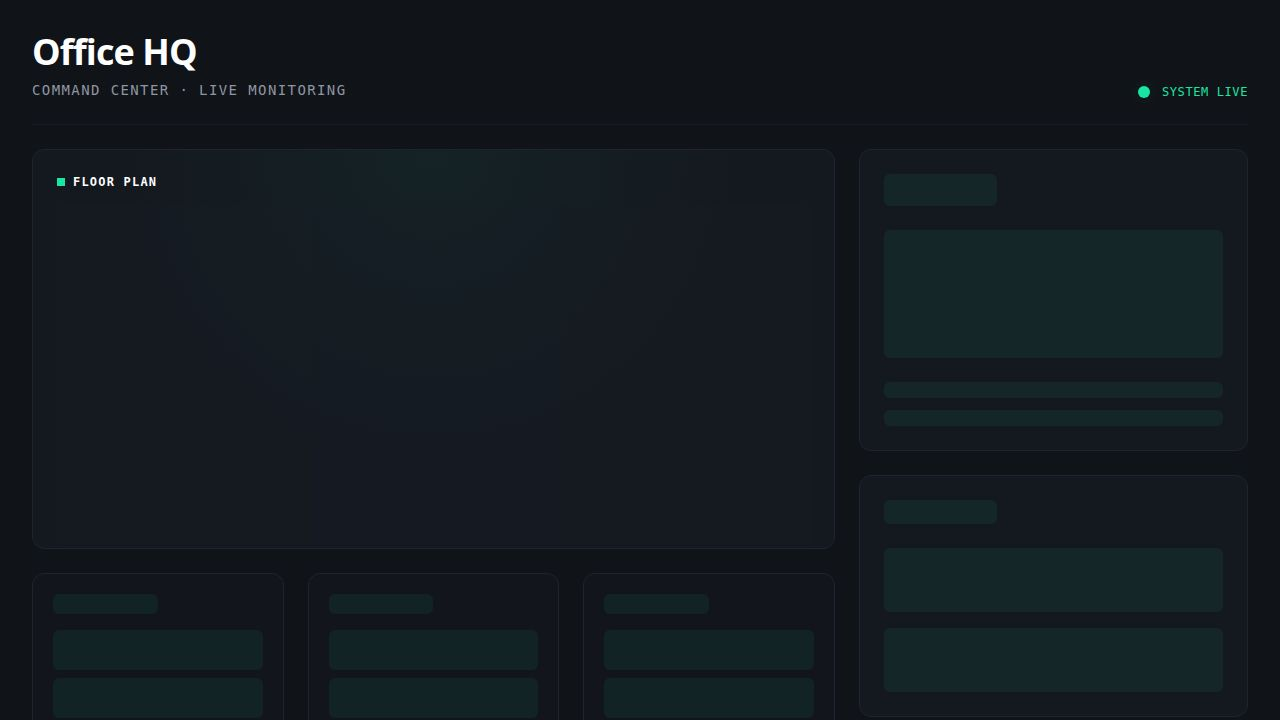
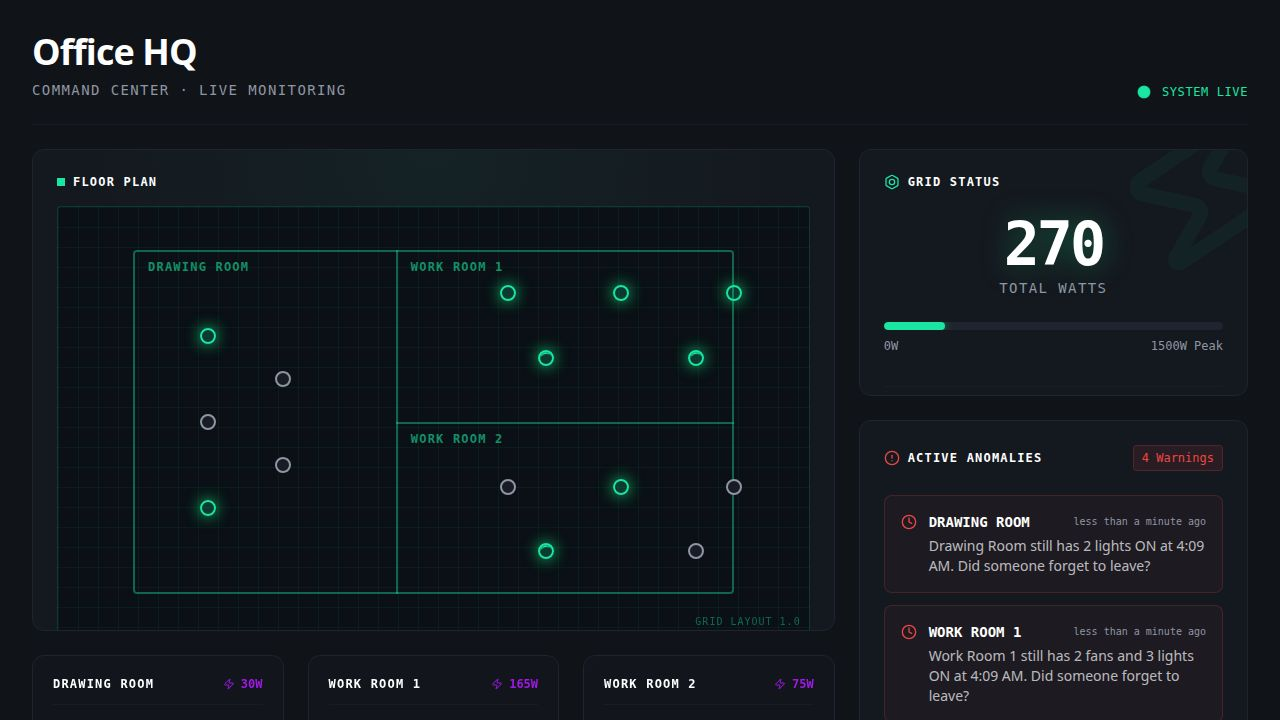
Add interactive controls for managing device states
Introduce a new API endpoint to update device states and integrate UI controls for toggling devices on and off.

Replit-Commit-Author: Agent
Replit-Commit-Session-Id: dd5321ab-e83e-40ae-be29-1f36fb33ab5c
Replit-Commit-Checkpoint-Type: full_checkpoint
Replit-Commit-Event-Id: 6da7ce42-8273-404b-93e8-211412987fb1
Replit-Commit-Screenshot-Url: https://storage.googleapis.com/screenshot-production-us-central1/3881f32d-806b-4e16-afae-a0b369c7b608/dd5321ab-e83e-40ae-be29-1f36fb33ab5c/VwCcY8L
Replit-Helium-Checkpoint-Created: true

diff --git a/artifacts/api-server/src/lib/deviceStore.ts b/artifacts/api-server/src/lib/deviceStore.ts
@@ -157,6 +157,36 @@ export function getUsageSummary(): UsageSummary {
   };
 }
 
+export function setDeviceState(
+  deviceId: string,
+  isOn: boolean,
+): DeviceState | undefined {
+  const index = devices.findIndex((device) => device.id === deviceId);
+  if (index === -1) return undefined;
+
+  const device = devices[index]!;
+  if (device.isOn === isOn) {
+    return { ...device };
+  }
+
+  const nowIso = new Date().toISOString();
+  const updated: DeviceState = {
+    ...device,
+    isOn,
+    powerDrawWatts: isOn ? device.ratedWatts : 0,
+    lastChangedAt: nowIso,
+  };
+  devices[index] = updated;
+
+  const { newAlerts } = refreshAlerts(getDevices());
+  deviceEvents.emit("update", { devices: getDevices() });
+  for (const alert of newAlerts) {
+    deviceEvents.emit("newAlert", alert);
+  }
+
+  return { ...updated };
+}
+
 function randomInt(min: number, max: number): number {
   return Math.floor(Math.random() * (max - min + 1)) + min;
 }

diff --git a/artifacts/office-dashboard/src/components/office-blueprint.tsx b/artifacts/office-dashboard/src/components/office-blueprint.tsx
@@ -1,5 +1,6 @@
 import React from "react";
-import { useListDevices } from "@workspace/api-client-react";
+import { useListDevices, useUpdateDevice, getListDevicesQueryKey } from "@workspace/api-client-react";
+import { useQueryClient } from "@tanstack/react-query";
 import { Skeleton } from "@/components/ui/skeleton";
 
 interface BlueprintDeviceProps {
@@ -8,12 +9,18 @@ interface BlueprintDeviceProps {
   isOn: boolean;
   type: "light" | "fan";
   label: string;
+  onToggle: () => void;
+  disabled: boolean;
 }
 
-function BlueprintDevice({ x, y, isOn, type, label }: BlueprintDeviceProps) {
+function BlueprintDevice({ x, y, isOn, type, label, onToggle, disabled }: BlueprintDeviceProps) {
   return (
-    <div 
-      className="absolute transform -translate-x-1/2 -translate-y-1/2 flex flex-col items-center gap-1 group"
+    <button
+      type="button"
+      onClick={onToggle}
+      disabled={disabled}
+      aria-label={`Toggle ${label}`}
+      className="absolute transform -translate-x-1/2 -translate-y-1/2 flex flex-col items-center gap-1 group cursor-pointer disabled:cursor-not-allowed disabled:opacity-60 bg-transparent border-0 p-0"
       style={{ left: `${x}%`, top: `${y}%` }}
     >
       <div 
@@ -33,12 +40,20 @@ function BlueprintDevice({ x, y, isOn, type, label }: BlueprintDeviceProps) {
       <div className="text-[9px] font-mono text-muted-foreground bg-background/80 px-1 rounded border border-border whitespace-nowrap opacity-0 group-hover:opacity-100 transition-opacity absolute top-6">
         {label}
       </div>
-    </div>
+    </button>
   );
 }
 
 export function OfficeBlueprint() {
   const { data, isLoading } = useListDevices();
+  const queryClient = useQueryClient();
+  const { mutate: updateDevice, isPending } = useUpdateDevice({
+    mutation: {
+      onSuccess: () => {
+        queryClient.invalidateQueries({ queryKey: getListDevicesQueryKey() });
+      },
+    },
+  });
 
   if (isLoading) {
     return <Skeleton className="w-full h-full min-h-[300px] rounded bg-muted/50" />;
@@ -114,6 +129,10 @@ export function OfficeBlueprint() {
             isOn={device.isOn}
             type={device.type}
             label={device.name}
+            disabled={isPending}
+            onToggle={() =>
+              updateDevice({ deviceId: device.id, data: { isOn: !device.isOn } })
+            }
           />
         );
       })}

diff --git a/artifacts/office-dashboard/src/components/room-status.tsx b/artifacts/office-dashboard/src/components/room-status.tsx
@@ -1,10 +1,20 @@
 import React from "react";
-import { useGetRoom } from "@workspace/api-client-react";
+import { useGetRoom, useUpdateDevice, getGetRoomQueryKey } from "@workspace/api-client-react";
+import { useQueryClient } from "@tanstack/react-query";
 import { Lightbulb, Fan, Zap } from "lucide-react";
 import { Skeleton } from "@/components/ui/skeleton";
+import { Switch } from "@/components/ui/switch";
 
 export function RoomStatus({ roomId, title }: { roomId: "drawing_room" | "work_room_1" | "work_room_2", title: string }) {
   const { data: room, isLoading, isError } = useGetRoom(roomId);
+  const queryClient = useQueryClient();
+  const { mutate: updateDevice, isPending } = useUpdateDevice({
+    mutation: {
+      onSuccess: () => {
+        queryClient.invalidateQueries({ queryKey: getGetRoomQueryKey(roomId) });
+      },
+    },
+  });
 
   if (isLoading) {
     return (
@@ -55,8 +65,18 @@ export function RoomStatus({ roomId, title }: { roomId: "drawing_room" | "work_r
               </div>
             </div>
             
-            <div className={`px-2 py-1 rounded text-[10px] font-mono uppercase font-bold ${device.isOn ? 'bg-primary/10 text-primary border border-primary/20' : 'bg-muted text-muted-foreground border border-border'}`}>
-              {device.isOn ? 'ON' : 'OFF'}
+            <div className="flex items-center gap-2">
+              <span className={`text-[10px] font-mono uppercase font-bold ${device.isOn ? 'text-primary' : 'text-muted-foreground'}`}>
+                {device.isOn ? 'ON' : 'OFF'}
+              </span>
+              <Switch
+                checked={device.isOn}
+                disabled={isPending}
+                onCheckedChange={(checked) =>
+                  updateDevice({ deviceId: device.id, data: { isOn: checked } })
+                }
+                aria-label={`Toggle ${device.name}`}
+              />
             </div>
           </div>
         ))}

diff --git a/artifacts/api-server/src/routes/devices.ts b/artifacts/api-server/src/routes/devices.ts
@@ -5,12 +5,16 @@ import {
   GetRoomResponse,
   GetUsageResponse,
   ListAlertsResponse,
+  UpdateDeviceParams,
+  UpdateDeviceBody,
+  UpdateDeviceResponse,
 } from "@workspace/api-zod";
 import {
   deviceEvents,
   getDevices,
   getRoomSummary,
   getUsageSummary,
+  setDeviceState,
 } from "../lib/deviceStore";
 import { getActiveAlerts } from "../lib/alertsEngine";
 import { logger } from "../lib/logger";
@@ -41,6 +45,20 @@ router.get("/alerts", (_req, res) => {
     alerts: getActiveAlerts(),
     generatedAt: new Date().toISOString(),
   });
+  res.json(payload);
+});
+
+router.patch("/devices/:deviceId", (req, res) => {
+  const { deviceId } = UpdateDeviceParams.parse(req.params);
+  const { isOn } = UpdateDeviceBody.parse(req.body);
+
+  const updated = setDeviceState(deviceId, isOn);
+  if (!updated) {
+    res.status(404).json({ error: `Device ${deviceId} not found` });
+    return;
+  }
+
+  const payload = UpdateDeviceResponse.parse(updated);
   res.json(payload);
 });
 

diff --git a/.agents/memory/discord-bot-missing-access.md b/.agents/memory/discord-bot-missing-access.md
@@ -1,0 +1,10 @@
+---
+name: Discord bot "Missing Access" on proactive channel post
+description: DiscordAPIError 50001 when the bot fetches/posts to a configured alert channel, even though the bot is already in the server
+---
+
+A bot can be successfully invited/logged into a Discord server (commands like `!status` work fine) yet still get `DiscordAPIError[50001]: Missing Access` specifically when fetching or posting to one particular channel ID.
+
+**Why:** Server membership and per-channel permissions are separate. The bot's role can lack "View Channel" / "Send Messages" on that one channel (permission overwrite), or the configured channel ID can belong to a different server/category than the one the bot was invited to, or point to a non-text channel.
+
+**How to apply:** Don't assume "bot is in the server" rules this out. Ask the user to: (1) re-copy the channel ID with Developer Mode on, right-click the exact text channel → Copy Channel ID; (2) check that channel's permission overwrites explicitly grant the bot's role View Channel + Send Messages (server-wide permissions don't always cascade if the channel has overwrites).

diff --git a/.agents/memory/MEMORY.md b/.agents/memory/MEMORY.md
@@ -1,2 +1,3 @@
 - [Shared-process bot + API pattern](shared-process-bot-api.md) — running a Discord/Slack bot in the same Node process as the API server avoids sync lag when both must read one live in-memory state.
 - [Stateful derived alerts](stateful-derived-alerts.md) — model recurring condition-based alerts as a keyed Map recomputed each tick, not as logged/appended events, to get correct createdAt and clean resolution.
+- [Discord bot "Missing Access"](discord-bot-missing-access.md) — server membership ≠ per-channel permissions; check channel ID and overwrites, not just invite status.